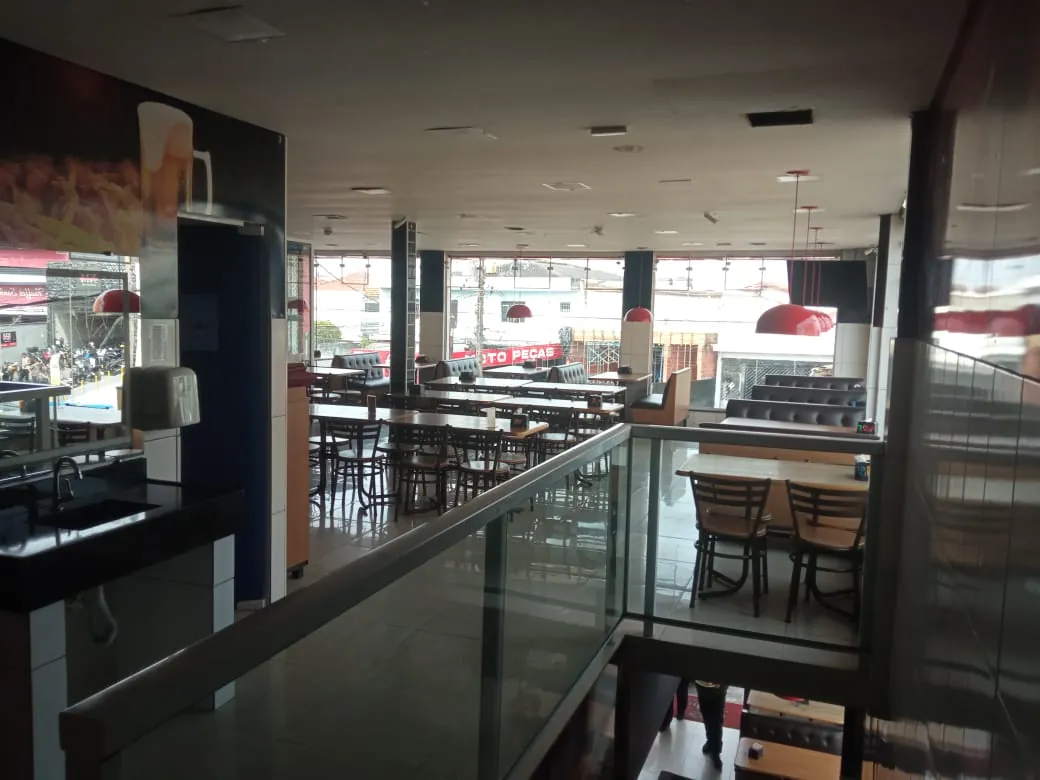
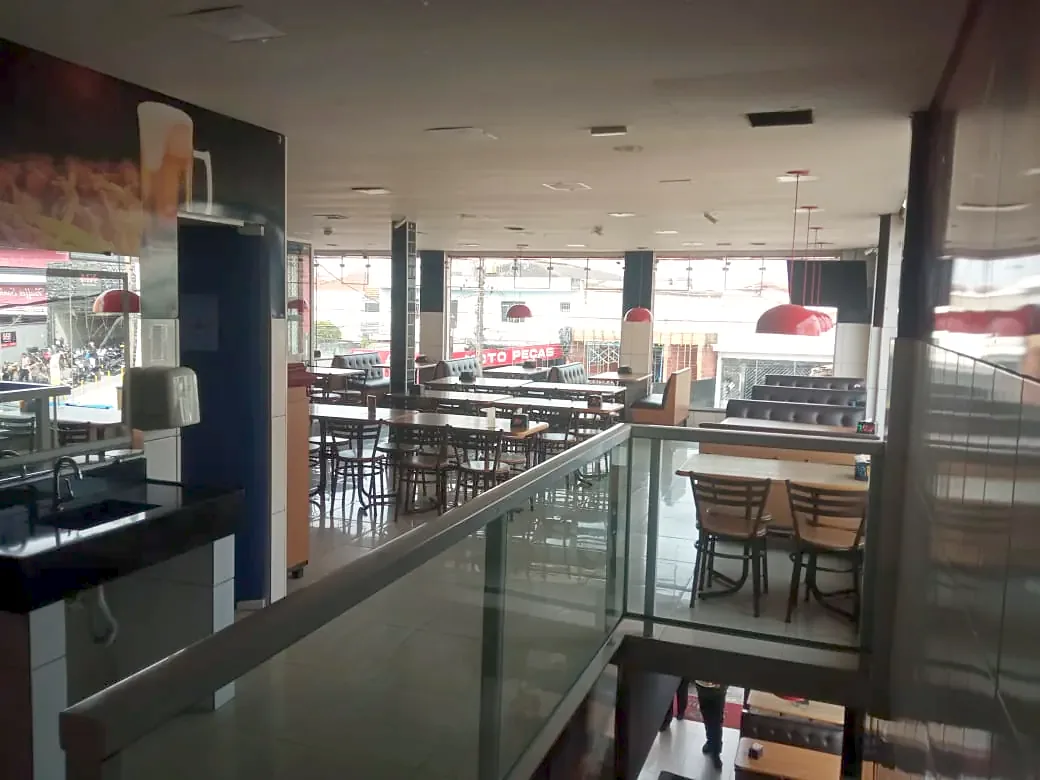
Auditoria completa: fotos tratadas e campos de preço e entrega
- cardápio: fotos recortadas em quadrado no prato, a partir dos originais em alta,
  com a mesma luz e o mesmo tom em todas
- ambiente: luz e cor corrigidas; vitrine sem a lixeira e sem o cartaz vencido,
  geladeiras sem a panela com pano, fachada do fim da tarde com céu de entardecer
- preço 'a partir de' em cada categoria e bloco de entrega (bairros, taxa e tempo),
  com campos amarelos 'a preencher' até a loja mandar os dados (DELIVERY e price em data.ts)
- componente Preencher compartilhado e script scripts/tratar-fotos.py pra refazer o tratamento

Claude-Session: https://claude.ai/code/session_01Mef7ektEvz1H9wndxGszfe

diff --git a/src/components/site/AmbientSection.tsx b/src/components/site/AmbientSection.tsx
@@ -22,11 +22,11 @@ const arrow =
   "focus-gold absolute top-[calc(50%-1.25rem)] z-10 grid size-11 shrink-0 -translate-y-1/2 place-items-center rounded-full bg-black/60 text-brand-white transition-colors hover:bg-gold hover:text-espresso md:static md:size-14 md:translate-y-0 md:bg-brand-white/15";
 
 const PHOTOS: { card: string; full: string; caption: string; alt: string; position?: string }[] = [
-  { card: fachadaTardeVertical, full: fachadaTardeVertical, caption: "Fachada no fim da tarde", alt: "Fachada ao anoitecer com as placas Aberto 24h e a equipe no balcão de entrada", position: "50% 70%" },
+  { card: fachadaTardeVertical, full: fachadaTardeVertical, caption: "Fachada no fim da tarde", alt: "Fachada ao entardecer com as luzes acesas, as placas Aberto 24h e a equipe no balcão de entrada", position: "50% 60%" },
   { card: fachada1, full: fachada1, caption: "Fachada de dia", alt: "Fachada da Rede da Esfiha durante o dia, prédio vermelho de dois andares com o letreiro da marca", position: "38% 50%" },
   { card: superior3, full: superior3, caption: "Espaço kids", alt: "Espaço kids com piscina de bolinhas e brinquedos, protegido por vidro e rede" },
   { card: superior1, full: superior1, caption: "Mesas perto das janelas", alt: "Salão do piso superior com mesas de madeira, janelas amplas e o espaço kids ao fundo" },
-  { card: terreo2, full: terreo2, caption: "Vitrine de salgados", alt: "Balcão com estufa e vitrine de salgados, luminárias vermelhas e painel de lanches na parede", position: "60% 50%" },
+  { card: terreo2, full: terreo2, caption: "Vitrine de salgados", alt: "Balcão com estufa e vitrine de salgados, luminárias vermelhas e painel de lanches na parede", position: "55% 50%" },
   { card: terreo1, full: terreo1, caption: "Salão e balcão do térreo", alt: "Salão do piso térreo com mesas de madeira, balcão de atendimento e a rua ao fundo", position: "40% 50%" },
   { card: superior2, full: superior2, caption: "Salão do piso superior", alt: "Vista do salão do piso superior a partir da escada, com mesas, sofás e luminárias vermelhas" },
   { card: fachadaNoiteVertical, full: fachadaNoiteVertical, caption: "Fachada à noite", alt: "Fachada iluminada à noite, com o salão do segundo andar aparecendo pelas vidraças" },

diff --git a/src/components/site/LocationSection.tsx b/src/components/site/LocationSection.tsx
@@ -1,6 +1,7 @@
-import { MapPin, Clock } from "lucide-react";
+import { Bike, MapPin, Clock } from "lucide-react";
 import fachadaDia from "@/assets/ambiente-fachada-1.webp";
-import { ADDRESS } from "./data";
+import { ADDRESS, DELIVERY } from "./data";
+import { Preencher } from "./Preencher";
 import { Reveal } from "./Reveal";
 import { Palavras } from "./Palavras";
 
@@ -37,6 +38,22 @@ export function LocationSection() {
                 <p className="mt-1">Todos os dias</p>
                 <p>Loja aberta: 08h às 04h</p>
                 <p>Delivery: 18h às 02h</p>
+              </div>
+            </div>
+          </Reveal>
+
+          <Reveal delay={0.17}>
+            <div className="mt-6 flex gap-3">
+              <Bike className="mt-0.5 size-5 shrink-0 text-burgundy" aria-hidden="true" />
+              <div className="min-w-0 text-sm leading-relaxed text-espresso/80 md:text-base">
+                <p className="font-semibold text-espresso">Entrega</p>
+                <p className="mt-1">
+                  Bairros atendidos: {DELIVERY.bairros || <Preencher>Vila Moraes, Cursino e região</Preencher>}
+                </p>
+                <p>
+                  Taxa a partir de {DELIVERY.taxa || <Preencher>R$ 0,00</Preencher>} · chega em{" "}
+                  {DELIVERY.tempo || <Preencher>00 min</Preencher>}
+                </p>
               </div>
             </div>
           </Reveal>

diff --git a/src/components/site/MenuSection.tsx b/src/components/site/MenuSection.tsx
@@ -1,10 +1,11 @@
 import { ORDER_URL, categories } from "./data";
 import { Reveal } from "./Reveal";
 import { Palavras } from "./Palavras";
+import { Preencher } from "./Preencher";
 
 // Cardápio no estilo das grandes redes de fast food: foto reta, sem cantos
-// arredondados nem degradês, e o nome embaixo em negrito. No hover, só a foto
-// aproxima e o nome fica vermelho.
+// arredondados nem degradês, o nome embaixo em negrito e o preço "a partir de".
+// No hover, só a foto aproxima e o nome fica vermelho.
 export function MenuSection() {
   return (
     <section id="cardapio" className="bg-champagne section-y">
@@ -31,6 +32,10 @@ export function MenuSection() {
                 </div>
                 <p className="mt-2 font-display text-[15px] font-bold leading-tight text-espresso transition-colors group-hover:text-burgundy md:mt-3 md:text-xl">
                   {c.name}
+                </p>
+                <p className="mt-1 text-sm leading-tight text-espresso/75 md:text-base">
+                  a partir de{" "}
+                  <span className="whitespace-nowrap">{c.price ? <strong className="text-espresso">{c.price}</strong> : <Preencher>R$ 0,00</Preencher>}</span>
                 </p>
               </a>
             </Reveal>

diff --git a/src/components/site/data.ts b/src/components/site/data.ts
@@ -21,7 +21,15 @@ export const EVENTS_WHATSAPP_URL = `${WHATSAPP_URL}?text=${encodeURIComponent("O
 export const ADDRESS = "Avenida do Cursino, 3216 – Vila Moraes, São Paulo – SP";
 export const COUPON = "CUPOMSITE25";
 
-export const categories = [
+// Preço "a partir de" de cada categoria e dados de entrega: preencher com os valores do Anota Aí.
+// Enquanto estiverem vazios, o site mostra um campo amarelo "a preencher" no lugar.
+export const DELIVERY = {
+  bairros: "", // ex.: "Vila Moraes, Cursino, Saúde, Sacomã e região"
+  taxa: "", // ex.: "R$ 5,00"
+  tempo: "", // ex.: "40 a 60 min"
+};
+
+export const categories: { name: string; src: string; alt: string; price?: string }[] = [
   { name: "Esfihas Abertas Salgadas", src: boardAsset, alt: "Tábua com esfihas abertas salgadas variadas, com recheios de carne, queijo e calabresa" },
   { name: "Esfihas Abertas Doces", src: esfihaDoceAsset, alt: "Esfiha aberta doce com cobertura de chocolate derretido" },
   { name: "Pizzas Salgadas", src: pizzaSalgadaAsset, alt: "Pizza salgada metade calabresa e metade mussarela sobre tábua de madeira" },

diff --git a/src/routes/privacidade.tsx b/src/routes/privacidade.tsx
@@ -4,6 +4,7 @@ import { Header } from "@/components/site/Header";
 import { Footer } from "@/components/site/Sections";
 import { OPEN_COOKIE_PREFERENCES } from "@/components/site/CookieBanner";
 import { ADDRESS, WHATSAPP_URL } from "@/components/site/data";
+import { Preencher } from "@/components/site/Preencher";
 
 const title = "Política de Privacidade | Rede da Esfiha Vila Moraes";
 const description =
@@ -23,11 +24,6 @@ export const Route = createFileRoute("/privacidade")({
   }),
   component: PrivacyPage,
 });
-
-// Dados que só a loja pode informar. Ficam destacados em amarelo até serem preenchidos.
-function Preencher({ children }: { children: ReactNode }) {
-  return <mark className="bg-gold/50 px-1 font-semibold text-espresso">{children}</mark>;
-}
 
 function Bloco({ titulo, children }: { titulo: string; children: ReactNode }) {
   return (

diff --git a/src/components/site/Preencher.tsx b/src/components/site/Preencher.tsx
@@ -1,0 +1,12 @@
+import type { ReactNode } from "react";
+
+// Marca em amarelo um dado que só a loja pode informar (preço, CNPJ, bairros...).
+// Some sozinho quando o valor real é colocado no lugar. Busque por <Preencher> no projeto
+// pra achar tudo o que falta antes de publicar.
+export function Preencher({ children }: { children: ReactNode }) {
+  return (
+    <mark title="A preencher com o dado real da loja" className="bg-gold/55 px-1 font-semibold text-espresso">
+      {children}
+    </mark>
+  );
+}

diff --git a/scripts/tratar-fotos.py b/scripts/tratar-fotos.py
@@ -1,0 +1,194 @@
+"""Tratamento das fotos da auditoria (04/11).
+
+Cardápio: recorte quadrado centrado no prato (a partir dos originais 1920x1281),
+mesma luz e mesmo tom em todas.
+Ambiente: luz e cor corrigidas; vitrine sem a lixeira e sem o cartaz vencido (recorte);
+geladeiras sem o pano e a panela (recorte); fachada do fim da tarde com céu de entardecer.
+
+Uso: python3 tratar.py <pasta-do-projeto> <pasta-de-saida>
+"""
+import os
+import sys
+
+import numpy as np
+from PIL import Image, ImageFilter
+
+ROOT, OUT = sys.argv[1], sys.argv[2]
+A = os.path.join(ROOT, "src", "assets")
+os.makedirs(os.path.join(OUT, "cardapio"), exist_ok=True)
+
+
+def lum(a):
+    return 0.2126 * a[..., 0] + 0.7152 * a[..., 1] + 0.0722 * a[..., 2]
+
+
+def sat(a):
+    mx, mn = a.max(-1), a.min(-1)
+    return (mx - mn) / np.maximum(mx, 1e-4)
+
+
+def niveis(a, lo=0.4, hi=99.6):
+    L = lum(a)
+    l0, l1 = np.percentile(L, lo), np.percentile(L, hi)
+    return np.clip((a - l0) / max(l1 - l0, 1e-3), 0, 1)
+
+
+def exposicao(a, alvo=0.45, forca=0.6):
+    med = float(np.median(lum(a)))
+    if med <= 0.01:
+        return a
+    g = np.log(alvo) / np.log(med)
+    g = 1 + (g - 1) * forca
+    g = float(np.clip(g, 0.7, 1.35))
+    return np.clip(a, 0, 1) ** g
+
+
+def balanco_branco(a, forca=0.8, quente=(1.03, 1.0, 0.955)):
+    """Neutraliza o tom usando as superfícies claras e sem cor (teto, piso, pratos)."""
+    L, S = lum(a), sat(a)
+    m = (L > np.percentile(L, 70)) & (S < 0.18) & (L < 0.97)
+    if m.sum() < 800:
+        return a
+    media = a[m].mean(0)
+    alvo = media.mean() * np.array(quente)
+    ganho = alvo / media
+    ganho = ganho / ganho[1]
+    ganho = np.clip(ganho, 0.85, 1.2)
+    ganho = 1 + (ganho - 1) * forca
+    return np.clip(a * ganho, 0, 1)
+
+
+def curva(a, quanto=0.10):
+    s = a * a * (3 - 2 * a)
+    return a * (1 - quanto) + s * quanto
+
+
+def saturacao(a, f=1.06):
+    L = lum(a)[..., None]
+    return np.clip(L + (a - L) * f, 0, 1)
+
+
+def para_img(a):
+    return Image.fromarray((np.clip(a, 0, 1) * 255 + 0.5).astype(np.uint8))
+
+
+def de_img(im):
+    return np.asarray(im.convert("RGB")).astype(np.float32) / 255
+
+
+def nitidez(im, r=1.0, p=55):
+    return im.filter(ImageFilter.UnsharpMask(radius=r, percent=p, threshold=2))
+
+
+# ---------------- Cardápio ----------------
+CARDAPIO = [
+    # arquivo de saída, original, centro x, centro y, lado do quadrado (px do original)
+    ("IMGP9352.webp", "IMGP9352.jpg", 470, 333, 667),
+    ("DSC09351-2.webp", "DSC09351-2.webp", 900, 640, 1281),
+    ("DSC09574-2.webp", "DSC09574-2.webp", 960, 640, 1281),
+    ("DSC00137-2.webp", "DSC00137-2.webp", 870, 640, 1250),
+    ("DSC09700.webp", "DSC09700.webp", 960, 600, 1250),
+    ("DSC09712-2.webp", "DSC09712-2.webp", 860, 600, 1250),
+    ("DSC09488-2.webp", "DSC09488-2.webp", 910, 640, 1150),
+    ("DSC09552.webp", "DSC09552.webp", 900, 640, 1281),
+    ("DSC09760.webp", "DSC09760.webp", 960, 700, 1160),
+    ("DSC00039-2.webp", "DSC00039-2.webp", 860, 640, 1150),
+    ("DSC09622.webp", "DSC09622.webp", 920, 660, 1100),
+    ("DSC09477.webp", "DSC09477.webp", 1200, 700, 1160),
+]
+LADO = 600
+
+base = []
+for saida, orig, cx, cy, s in CARDAPIO:
+    im = Image.open(os.path.join(A, orig)).convert("RGB")
+    W, H = im.size
+    x0 = max(0, min(W - s, cx - s // 2))
+    y0 = max(0, min(H - s, cy - s // 2))
+    im = im.crop((x0, y0, x0 + s, y0 + s)).resize((LADO, LADO), Image.LANCZOS)
+    a = exposicao(niveis(de_img(im)), alvo=0.42, forca=0.55)
+    base.append((saida, a))
+
+# mesmo tom em todas: aproxima a cor média de cada foto da mediana do conjunto
+cromas = np.array([a.reshape(-1, 3).mean(0) / a.reshape(-1, 3).mean() for _, a in base])
+alvo = np.median(cromas, axis=0)
+for (saida, a), c in zip(base, cromas):
+    ganho = 1 + (alvo / c - 1) * 0.6
+    a = np.clip(a * ganho, 0, 1)
+    a = saturacao(curva(a, 0.12), 1.07)
+    im = nitidez(para_img(a), 1.0, 50)
+    im.save(os.path.join(OUT, "cardapio", saida), "WEBP", quality=80, method=6)
+
+
+# ---------------- Ambiente ----------------
+def levantar_sombras(a, quanto=0.18):
+    L = lum(a)[..., None]
+    peso = np.clip(1 - L / 0.45, 0, 1) ** 2
+    return np.clip(a + (np.sqrt(np.clip(a, 0, 1)) - a) * peso * quanto, 0, 1)
+
+
+def tratar_ambiente(a, alvo=0.5):
+    a = niveis(a, 0.3, 99.7)
+    a = levantar_sombras(a)
+    a = balanco_branco(a, 0.75)
+    a = exposicao(a, alvo=alvo, forca=0.5)
+    a = saturacao(curva(a, 0.10), 1.05)
+    return a
+
+
+def salvar(a, nome, q=82):
+    nitidez(para_img(a), 1.1, 45).save(os.path.join(OUT, nome), "WEBP", quality=q, method=6)
+
+
+for nome in [
+    "ambiente-fachada-1", "ambiente-fachada-3", "ambiente-superior-1", "ambiente-superior-2",
+    "ambiente-superior-3", "ambiente-superior-4", "ambiente-terreo-1", "fachada-1",
+]:
+    a = de_img(Image.open(os.path.join(A, nome + ".webp")))
+    alvo = 0.42 if nome in ("ambiente-fachada-3", "fachada-1") else 0.5  # noturnas ficam escuras
+    salvar(tratar_ambiente(a, alvo), nome + ".webp")
+
+# vitrine: recorte tira a lixeira (embaixo) e o cartaz vencido do Dia das Crianças (esquerda)
+im = Image.open(os.path.join(A, "ambiente-terreo-2.webp")).convert("RGB").crop((140, 0, 1040, 566))
+salvar(tratar_ambiente(de_img(im)), "ambiente-terreo-2.webp")
+
+# geladeiras: recorte tira a panela com o pano (esquerda) e o micro-ondas/toalha (direita)
+im = Image.open(os.path.join(A, "ambiente-terreo-3.webp")).convert("RGB").crop((388, 150, 872, 780))
+salvar(tratar_ambiente(de_img(im)), "ambiente-terreo-3.webp")
+
+# fachada no fim da tarde: troca o céu cinza por um céu de entardecer, mantendo fios e postes
+im = Image.open(os.path.join(A, "fachada-2.webp")).convert("RGB")
+a = de_img(im)
+H, W, _ = a.shape
+L, S = lum(a), sat(a)
+# probabilidade de ser céu: claro, sem cor e acima do prédio
+ys = np.arange(H)[:, None]
+# acima de y=420 não há luminárias: nuvens bem claras também contam como céu
+teto_claro = np.where(ys < 420, 1.0, np.clip((0.985 - L) / 0.06, 0, 1))
+p = np.clip((L - 0.28) / 0.12, 0, 1) * np.clip((0.16 - S) / 0.07, 0, 1) * teto_claro
+xs = np.arange(W)[None, :]
+limite = np.full(W, 560.0)
+limite[xs[0] < 200] = 700  # telhado da ala esquerda fica mais baixo
+limite[xs[0] > 840] = 620  # prédio vizinho à direita
+p = p * (ys < limite[None, :])
+# só o céu ligado ao topo (evita pegar paredes cinza)
+from scipy import ndimage  # noqa: E402
+
+rot, n = ndimage.label(p > 0.35)
+topo = set(np.unique(rot[0, :])) - {0}
+conectado = np.isin(rot, list(topo))
+p = p * ndimage.binary_dilation(conectado, iterations=2)
+p = np.asarray(Image.fromarray((p * 255).astype(np.uint8)).filter(ImageFilter.GaussianBlur(1.2))).astype(np.float32) / 255
+# degradê de entardecer: azul no alto, lilás no meio e laranja perto do telhado
+t = np.clip(ys / 560.0, 0, 1)
+c0, c1, c2 = np.array([0.22, 0.36, 0.62]), np.array([0.55, 0.66, 0.84]), np.array([0.97, 0.80, 0.62])
+ceu = np.where(t[..., None] < 0.6, c0 + (c1 - c0) * (t[..., None] / 0.6), c1 + (c2 - c1) * ((t[..., None] - 0.6) / 0.4))
+ceu = np.broadcast_to(ceu, (H, W, 3))
+# mantém a textura das nuvens do original
+media_ceu = float((L * p).sum() / max(p.sum(), 1))
+textura = np.clip(L / max(media_ceu, 1e-3), 0.6, 1.35)[..., None] ** 0.6
+novo = np.clip(ceu * textura, 0, 1)
+a2 = a * (1 - p[..., None]) + novo * p[..., None]
+a2 = tratar_ambiente(a2, alvo=0.45)
+salvar(a2, "fachada-2.webp")
+Image.fromarray((p * 255).astype(np.uint8)).save(os.path.join(OUT, "mascara-ceu.png"))
+print("pronto")
